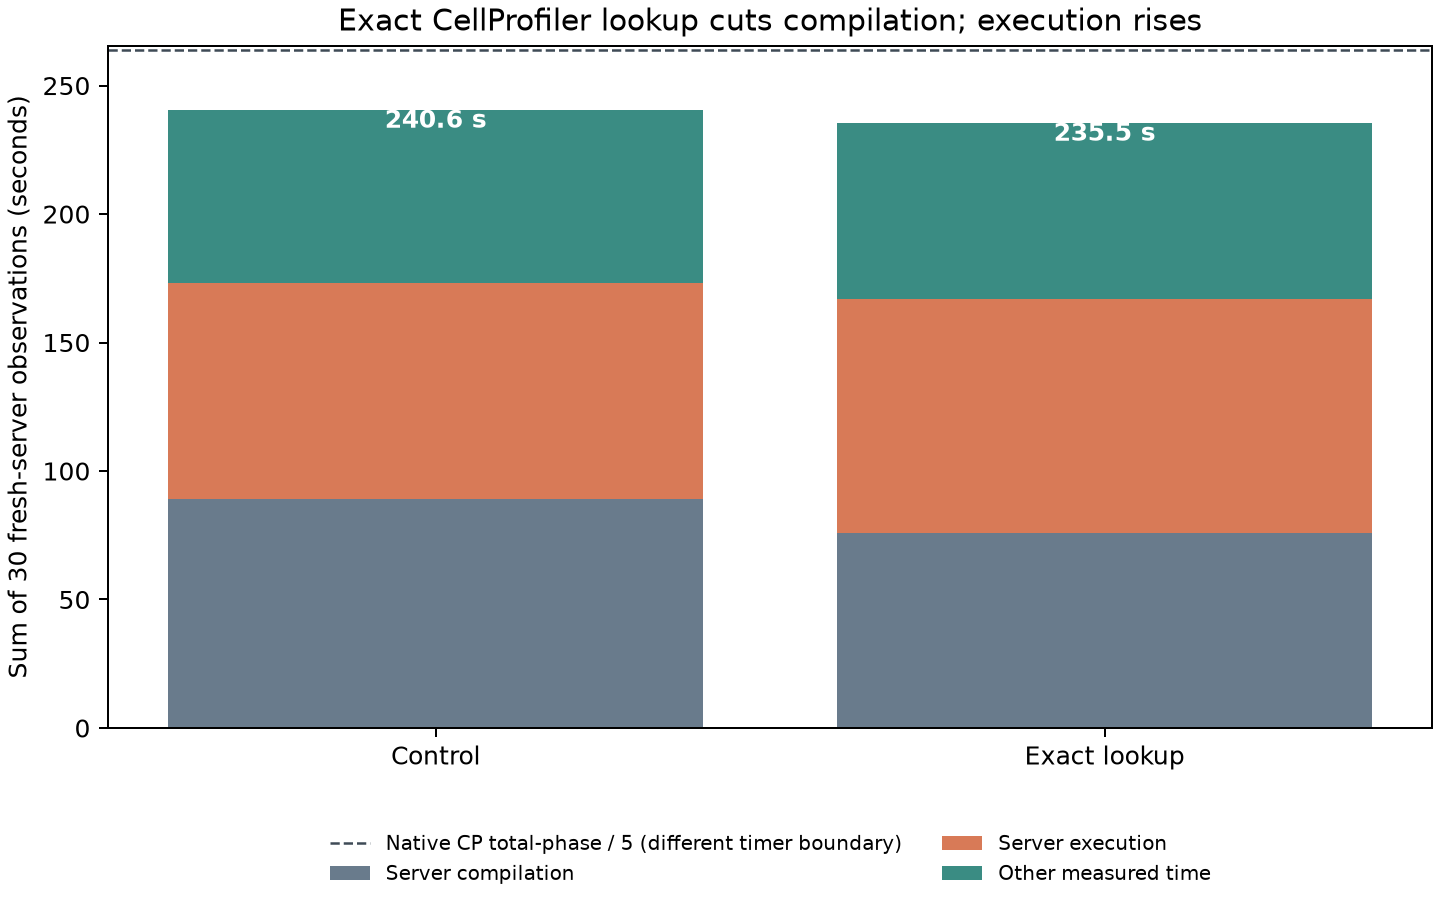
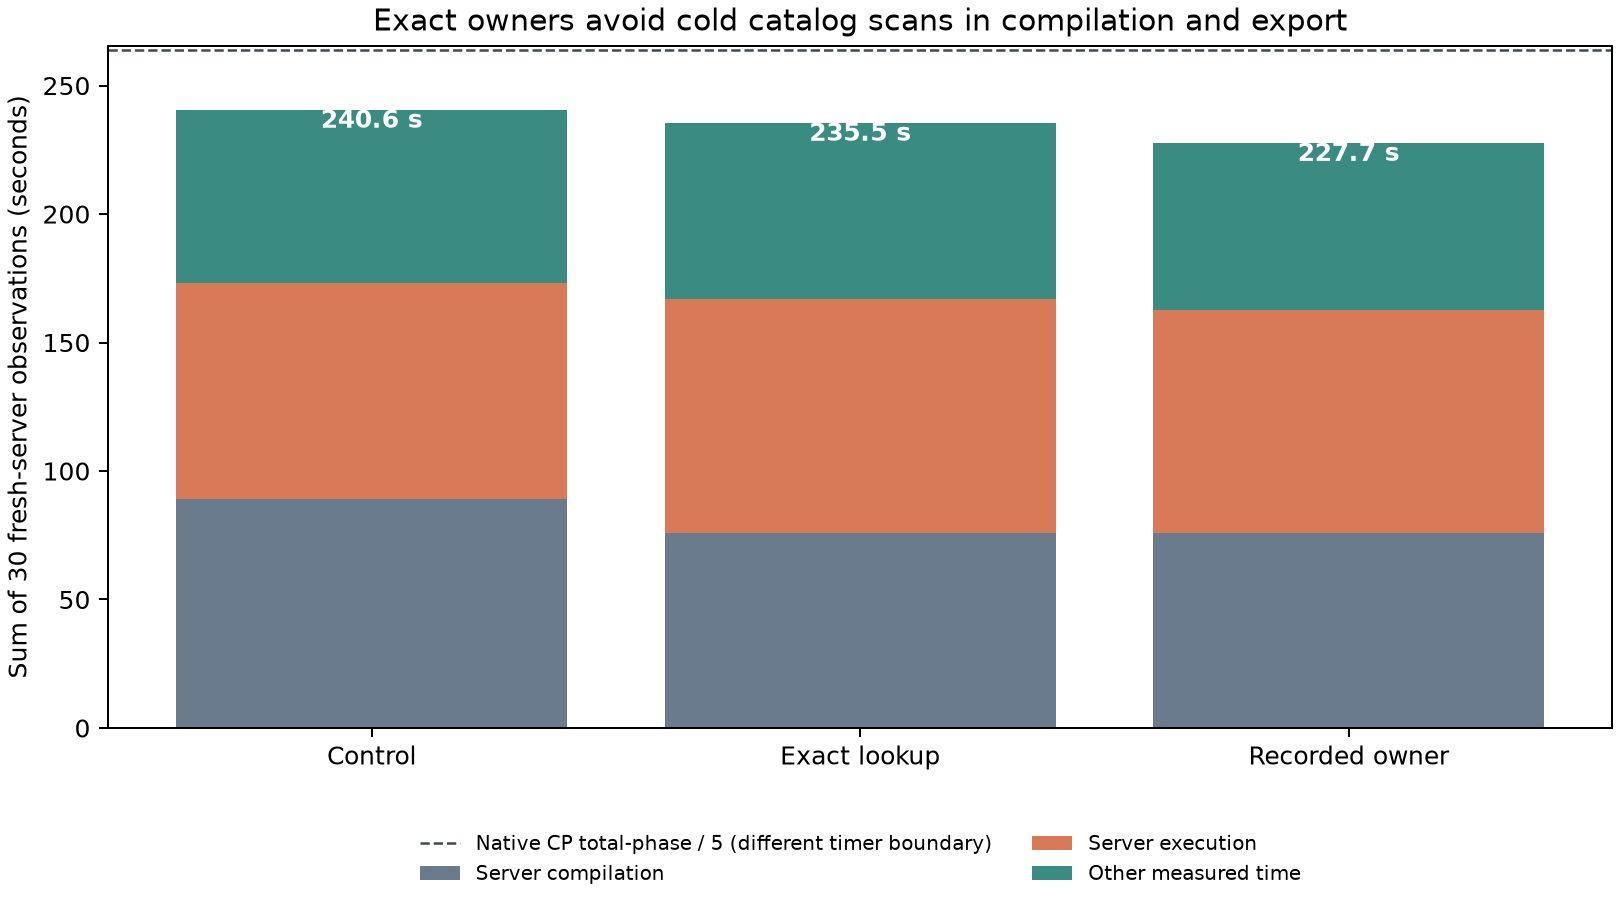
perf: dispatch experiment reductions from recorded owner (#188)

diff --git a/benchmark/results/perf_lazy_cp_registry_20260929/plot.py b/benchmark/results/perf_lazy_cp_registry_20260929/plot.py
@@ -21,11 +21,12 @@ def summed(dataset: dict[str, dict[str, str]], column: str) -> float:
 
 
 control = rows(HERE / "control.csv")
+lookup_only = rows(HERE / "lookup_only.csv")
 candidate = rows(HERE / "candidate.csv")
 native = rows(HERE.parent / "perf_lazy_catalog_20260929" / "native_cp_summary.csv")
-assert control.keys() == candidate.keys()
+assert control.keys() == lookup_only.keys() == candidate.keys()
 
-observations = (control, candidate)
+observations = (control, lookup_only, candidate)
 compile_time = [summed(dataset, "compile_seconds") for dataset in observations]
 execute_time = [summed(dataset, "execute_seconds") for dataset in observations]
 totals = [summed(dataset, "total_seconds") for dataset in observations]
@@ -37,8 +38,8 @@ native_five_x_line = (
     sum(float(row["median_native_total_phase_seconds"]) for row in native.values()) / 5
 )
 
-fig, ax = plt.subplots(figsize=(8, 5), layout="constrained")
-x = np.arange(2)
+fig, ax = plt.subplots(figsize=(9, 5), layout="constrained")
+x = np.arange(3)
 ax.bar(x, compile_time, label="Server compilation", color="#697b8c")
 ax.bar(x, execute_time, bottom=compile_time, label="Server execution", color="#d87a57")
 ax.bar(
@@ -65,10 +66,10 @@ ax.axhline(
     linewidth=1,
     label="Native CP total-phase / 5 (different timer boundary)",
 )
-ax.set_xticks(x, ("Control", "Exact lookup"))
+ax.set_xticks(x, ("Control", "Exact lookup", "Recorded owner"))
 ax.set_ylabel("Sum of 30 fresh-server observations (seconds)")
 ax.set_ylim(0, max(totals) + 25)
-ax.set_title("Exact CellProfiler lookup cuts compilation; execution rises")
+ax.set_title("Exact owners avoid cold catalog scans in compilation and export")
 ax.legend(
     frameon=False, fontsize=8, loc="upper center", bbox_to_anchor=(0.5, -0.13), ncol=2
 )
@@ -96,7 +97,7 @@ ax.set_yticks(y, ordered, fontsize=7)
 ax.invert_yaxis()
 ax.axvline(0, color="#2f3640", linewidth=0.8)
 ax.set_xlabel("Candidate minus control seconds per case (lower is faster)")
-ax.set_title("Compilation improves in all cases; execution often rises")
+ax.set_title("Compilation falls; execution is near parity")
 ax.legend(frameon=False, loc="lower right")
 fig.savefig(HERE / "per_case_phase_deltas.png", dpi=180)
 plt.close(fig)

diff --git a/tests/unit/test_cellprofiler_backend_public_api.py b/tests/unit/test_cellprofiler_backend_public_api.py
@@ -121,6 +121,46 @@ def test_exact_callable_contract_and_preparation_keep_other_modules_lazy() -> No
     assert completed.returncode == 0, completed.stderr or completed.stdout
 
 
+def test_experiment_measurements_use_recorded_owner_without_catalog_discovery() -> None:
+    script = textwrap.dedent("""
+        import sys
+
+        from openhcs.core.measurement_row_materialization import MeasurementProjectedColumnarRows
+        from openhcs.core.runtime_measurements import MeasurementScope, MeasurementSubject, MeasurementTable
+        from openhcs.core.runtime_tabular_values import FieldSpec
+        from openhcs.interop.cellprofiler.module_declarations import CellProfilerModule
+        from openhcs.processing.backends.cellprofiler.image_quality import MeasureImageQualityModule
+
+        feature = "ImageQuality_ThresholdOtsu_OrigHoechst_2W"
+        table = MeasurementTable(
+            name="MeasureImageQuality_measurements",
+            rows=MeasurementProjectedColumnarRows(
+                {feature: (0.2, 0.4)},
+                fields=(FieldSpec(feature, float, required=False),),
+            ),
+            subject=MeasurementSubject(MeasurementScope.IMAGE, "Image"),
+            measurement_feature_owner=MeasureImageQualityModule,
+        )
+        prefix = "openhcs.processing.backends.cellprofiler."
+        before = {name for name in sys.modules if name.startswith(prefix)}
+        (experiment_table,) = CellProfilerModule.derive_experiment_measurement_tables((table,))
+        after = {name for name in sys.modules if name.startswith(prefix)}
+
+        assert experiment_table.name == "MeasureImageQuality_experiment_measurements"
+        assert before == after, sorted(after - before)
+        assert not CellProfilerModule.__registry__._discovered
+        """)
+
+    completed = subprocess.run(
+        [sys.executable, "-c", script],
+        check=False,
+        capture_output=True,
+        text=True,
+    )
+
+    assert completed.returncode == 0, completed.stderr or completed.stdout
+
+
 def test_submodule_import_does_not_replace_backend_callable() -> None:
     import openhcs.processing.backends.cellprofiler as cellprofiler_backend
 

diff --git a/openhcs/interop/cellprofiler/module_measurement_features.py b/openhcs/interop/cellprofiler/module_measurement_features.py
@@ -441,12 +441,16 @@ class CellProfilerMeasurementFeatureOwner(RuntimeMeasurementFeatureOwner):
         """Dispatch plate reductions to the exact recorded measurement owners."""
 
         table_sequence = tuple(tables)
+        # Tables retain their exact nominal feature owner. Check that owner
+        # against the already-registered declaration instead of discovering
+        # every CellProfiler backend module during a timed export step.
         owners = tuple(
             dict.fromkeys(
-                module_type
+                owner
                 for table in table_sequence
-                for module_type in cls.__registry__.values()
-                if table.measurement_feature_owner is module_type
+                if (owner := table.measurement_feature_owner) is not None
+                and isinstance((owner_name := getattr(owner, "module_name", None)), str)
+                and dict.get(cls.__registry__, owner_name) is owner
             )
         )
         return tuple(

diff --git a/tests/unit/test_cellprofiler_image_quality.py b/tests/unit/test_cellprofiler_image_quality.py
@@ -49,6 +49,7 @@ from openhcs.core.source_image_provenance import SourceImageProvenancePlanes
 from openhcs.core.source_bindings import NamedSourceBinding, StepSourceBindingsConfig
 from openhcs.core.source_matching import SourceImageSetIdentityPolicy
 from openhcs.interop.cellprofiler.parser import ModuleBlock, ModuleSetting
+from openhcs.interop.cellprofiler.module_declarations import CellProfilerModule
 from openhcs.interop.cellprofiler.image_set_numbering import (
     CellProfilerImageSetNumbering,
 )
@@ -631,6 +632,10 @@ def test_image_quality_experiment_measurements_use_exact_columnar_schema() -> No
     (experiment_table,) = MeasureImageQualityModule.experiment_measurement_tables(
         (image_table,)
     )
+    (dispatched_table,) = CellProfilerModule.derive_experiment_measurement_tables(
+        (image_table,)
+    )
+    assert dispatched_table.rows.row_mappings() == experiment_table.rows.row_mappings()
 
     assert experiment_table.rows.fields == (
         FieldSpec(

diff --git a/benchmark/results/perf_lazy_cp_registry_20260929/README.md b/benchmark/results/perf_lazy_cp_registry_20260929/README.md
@@ -1,29 +1,31 @@
-# Exact CellProfiler lookup: fresh-server official30 1w_1t (2026-09-29)
+# Exact CellProfiler owners: fresh-server official30 1w_1t (2026-09-29)
 
-This investigation accompanies [OpenHCS issue #188](https://github.com/OpenHCSDev/openhcs/issues/188). The control is integration commit `d18dbc877`, including the lazy PolyStore NGFF import at submodule commit `11269ed`. The candidate changes only exact CellProfiler declaration lookup and compiler preparation of AutoRegister families. Each official30 observation uses one well, one OpenHCS thread, a `fork` worker, and a fresh client-owned ZMQ server. The earlier native CellProfiler 4.2.8.1 reference uses its own timer boundary.
+This report accompanies [OpenHCS issue #188](https://github.com/OpenHCSDev/openhcs/issues/188) and [draft PR #189](https://github.com/OpenHCSDev/openhcs/pull/189). The control is integration commit `d18dbc877`, including lazy PolyStore NGFF imports at submodule commit `11269ed`. The candidate adds exact CellProfiler callable lookup, compiler preparation limited to registered preparation families, and experiment-measurement dispatch through the owner already recorded on each table. Each observation uses one well, one OpenHCS thread, a `fork` worker, and a fresh client-owned ZMQ server.
 
-Profiling the control attributed **24.87 of 89.31 compilation seconds** to CellProfiler invocation-contract provider calls across 30 cases. The first provider pass accounted for 22.58 seconds. On the three-step CombineObjects case, the first exact contract lookup triggered full lazy discovery of the CellProfiler module catalog and took 1.014 seconds. A lookup-only prototype simply moved that cost into callable preparation, so it was rejected. The candidate imports the callable's exact module and searches the registered declarations already loaded; compiler preparation now touches only registries with `CompilerPreparedAutoRegisterFamily` hooks. Explicit catalog and discovery APIs still discover the full registry.
+The control profile attributed **24.87 of 89.31 compilation seconds** to CellProfiler invocation-contract provider calls across 30 cases. The first provider pass accounted for 22.58 seconds. On the three-step CombineObjects case, its first exact contract lookup triggered full lazy discovery of the CellProfiler module catalog and took 1.014 seconds. Resolving the exact callable module avoids discovery there; skipping registries without compiler preparation hooks prevents the same work from moving into callable preparation.
 
-| Sum of 30 fresh-server observations (seconds) | Control | Candidate | Difference |
-| --- | ---: | ---: | ---: |
-| Server compilation jobs | 89.271 | 75.909 | **-13.362** |
-| Server execution jobs | 84.018 | 91.049 | +7.031 |
-| Other measured time | 67.294 | 68.564 | +1.270 |
-| Per-observation total | 240.582 | 235.522 | -5.060 |
+An intermediate exact-lookup-only run improved compilation but moved some catalog discovery into timed execution. Profiling its WoundHealing spreadsheet export traced **0.77 seconds** to `derive_experiment_measurement_tables`: that method searched the full registry to find a class already stored in each `MeasurementTable.measurement_feature_owner`. Dispatching directly through the registered owner lowered the WoundHealing export step **0.555 → 0.004 seconds** and the quality-control database export step **0.872 → 0.066 seconds** in the retained runs. Explicit catalog/discovery APIs still discover the full registry.
 
-All 30 cases succeeded; compilation fell in every case (paired median **-0.538 seconds**, range -0.807 to -0.006). All 110 result files have identical paths and bytes. Execution rose in 24 cases, so this change is **not** an execution-only improvement. The total sum fell by 5.06 seconds, but only 14 cases were individually faster; suite-wide total gain is modest relative to its run variation. The first-call execution path appears to absorb some work no longer done by broad catalog discovery. This tradeoff needs review before promotion.
+| Sum of 30 fresh-server observations (seconds) | Control | Lookup only | Recorded owner | Final minus control |
+| --- | ---: | ---: | ---: | ---: |
+| Server compilation jobs | 89.271 | 75.909 | 75.797 | **-13.474** |
+| Server execution jobs | 84.018 | 91.049 | 86.747 | +2.729 |
+| Other measured time | 67.294 | 68.564 | 65.146 | -2.148 |
+| Per-observation total | 240.582 | 235.522 | 227.690 | **-12.892** |
 
-A warmed control/candidate/candidate/control comparison on the short CombineObjects case used the exact parent commit in a separate worktree. Mean compilation changed **2.151 → 1.309 seconds**, execution **0.158 → 0.283 seconds**, and measured total **4.487 → 3.424 seconds**. This confirms a useful short-pipeline total gain alongside the execution regression. A newly created control worktree incurred unrelated cold JIT work in its first colocalization run, so that run is excluded from the paired claim.
+All 30 final cases succeeded. Compilation fell in 28 cases (paired median **-0.551 seconds**) and total time fell in 23 cases (paired median **-0.582 seconds**). Execution's paired median changed by less than 0.001 seconds; its aggregate was 2.729 seconds higher, so this is a total-time improvement rather than an execution-only win. The 110 result files have identical paths and bytes on control and final candidate. The intermediate lookup-only run also achieved 110/110 byte parity.
 
-The native CP total-phase 5× reference is 263.871 seconds for these 30 cases. Both OpenHCS variants remain below it; those native and OpenHCS total timers have different preparation boundaries. The figures show the native reference for context rather than a strict end-to-end speedup claim.
+A warmed control/candidate/candidate/control comparison on the short CombineObjects case used the exact parent commit in a separate worktree. For the lookup-only candidate, mean compilation changed **2.151 → 1.309 seconds**, execution **0.158 → 0.283 seconds**, and measured total **4.487 → 3.424 seconds**. Those timings establish the short-case gain and the reason for the recorded-owner follow-up. The first colocalization run in a newly created control worktree incurred unrelated cold JIT work and was excluded from the paired claim.
+
+A remaining `RelateObjects` path still requests full global measurement-dialect declarations during its first timed call (about 0.7 seconds in a representative profile). It is not changed here because the global dialect must retain its complete semantics; a future scoped projection needs separate parity evidence. The native CP 4.2.8.1 total-phase 5× reference is **263.871 seconds** for these cases. Its timer has a different preparation boundary, so the figure shows it as context rather than a strict end-to-end ratio.
 
 ![Fresh-server total-time breakdown and native reference](fresh_server_total_breakdown.png)
 
-![Per-case compilation and execution shifts](per_case_phase_deltas.png)
+![Per-case compilation and execution changes](per_case_phase_deltas.png)
 
-`control.csv`, `candidate.csv`, and `abba.csv` retain the observations; `plot.py` regenerates both figures. Full raw trees and receipts are under `/home/ts/code/projects/openhcs-benchmark-runs/perf-lazy-ome-zarr-full-candidate-20260929` and `/home/ts/code/projects/openhcs-benchmark-runs/perf-lazy-cp-registry-full-20260929`. The warmed short-case raw runs are under `/home/ts/code/projects/openhcs-benchmark-runs/perf-lazy-cp-registry-abba-3-20260929`.
+`control.csv`, `lookup_only.csv`, `candidate.csv`, and `abba.csv` retain the measurements; `plot.py` regenerates both figures. Raw full-run trees and receipts are under `/home/ts/code/projects/openhcs-benchmark-runs/perf-lazy-ome-zarr-full-candidate-20260929`, `/home/ts/code/projects/openhcs-benchmark-runs/perf-lazy-cp-registry-full-20260929`, and `/home/ts/code/projects/openhcs-benchmark-runs/perf-lazy-cp-owner-full-20260929`. The warmed short-case runs are under `/home/ts/code/projects/openhcs-benchmark-runs/perf-lazy-cp-registry-abba-3-20260929`.
 
-Validation: 787 focused unit and compilation tests passed. A fresh-process regression test confirms that exact ownership lookup and callable preparation leave unrelated CellProfiler backend modules unimported. Black, selected Ruff checks, and whitespace checks passed. The official30 run used the ordinary ZMQ completion path and achieved 110/110 byte parity.
+All 831 focused ownership, export, and compilation tests passed. Fresh-process regression tests confirm that exact callable ownership, callable preparation, and experiment-measurement dispatch leave unrelated CellProfiler modules unimported. The full candidate run used the ordinary ZMQ completion path and achieved 110/110 byte parity. Black, selected Ruff checks, and whitespace checks passed.
 
 Reproduce the full run with:
 
